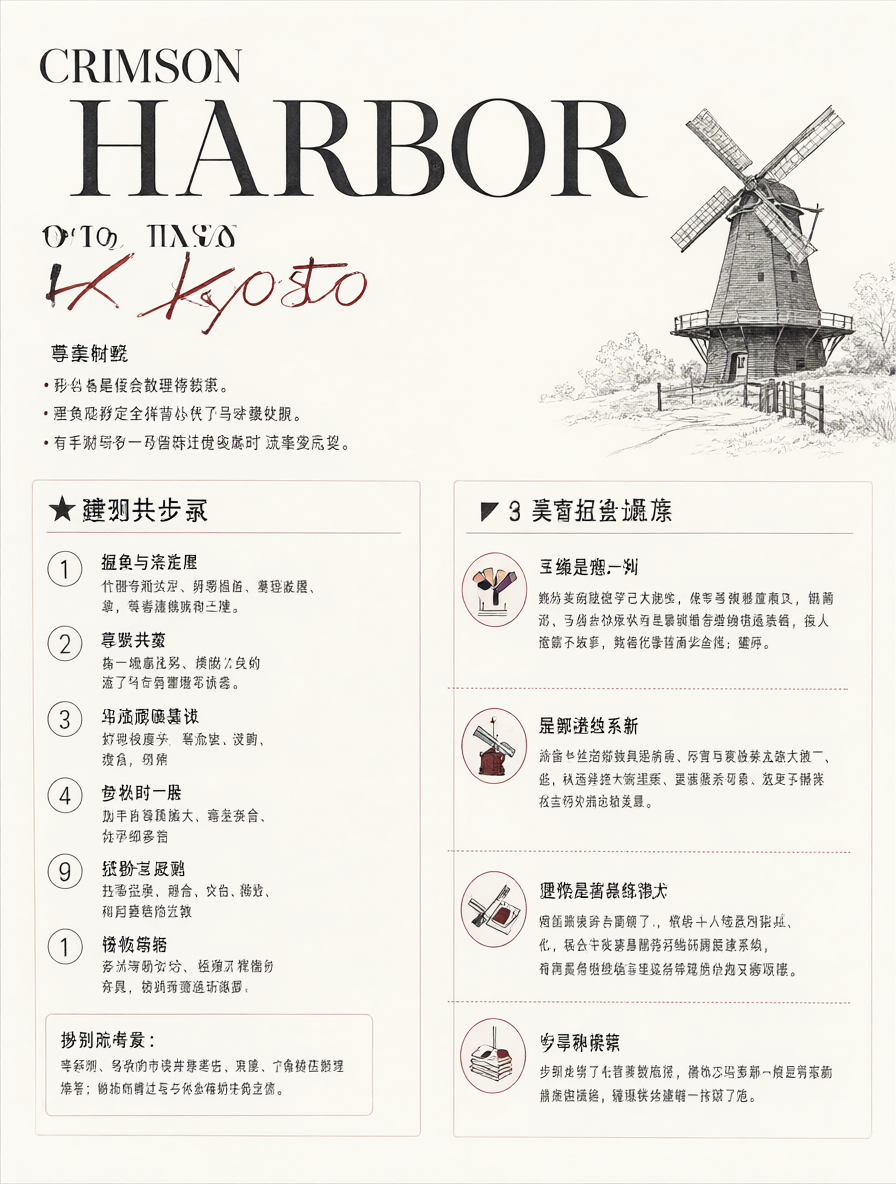
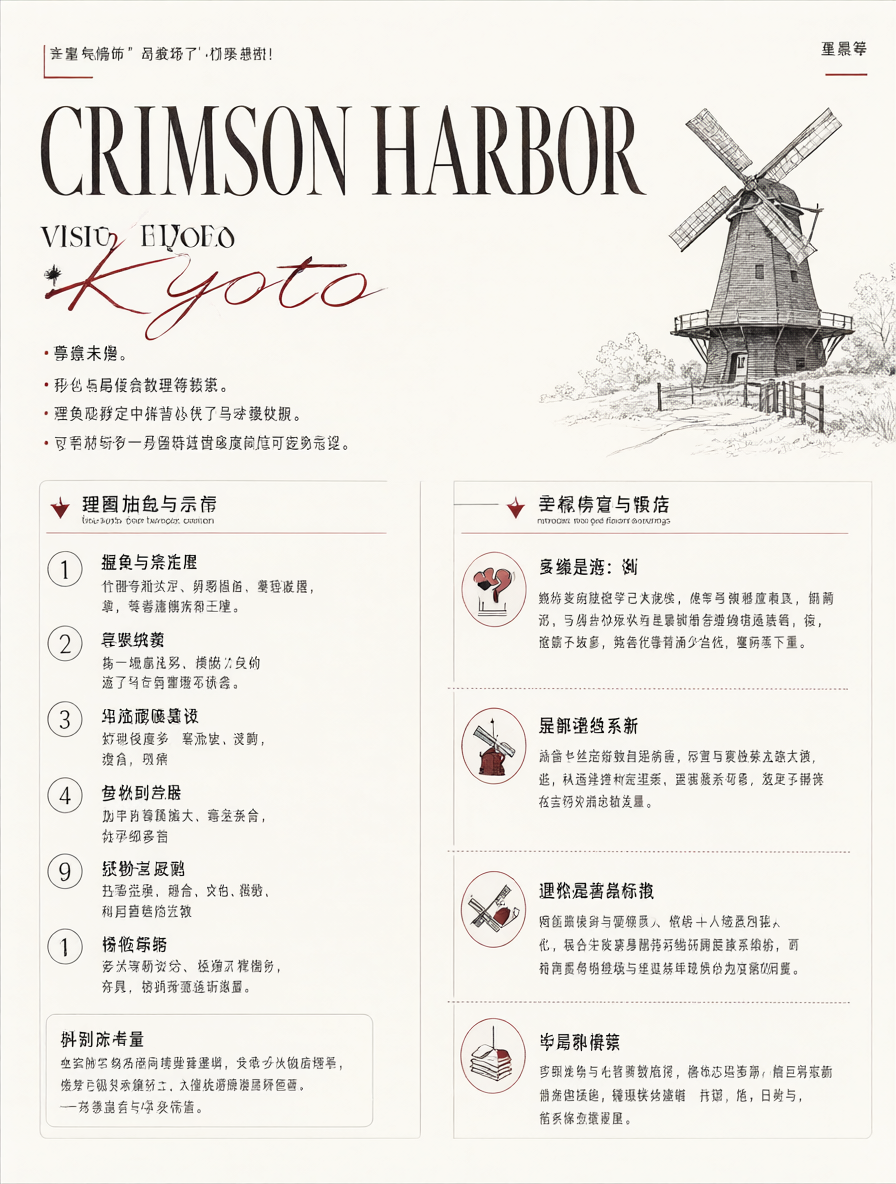
Publish matched full-student image comparison

diff --git a/nihonga/index.html b/nihonga/index.html
@@ -8,7 +8,7 @@
   <link rel="canonical" href="https://niwakiai.com/nihonga/">
   <meta property="og:type" content="website">
   <meta property="og:title" content="Nihonga · Qwen Image compression research">
-  <meta property="og:description" content="A measured research record: full-student healing improved teacher agreement on a broader validation sample; matched image quality remains to be tested.">
+  <meta property="og:description" content="Full-student healing improved teacher agreement on a broader validation sample, but a small matched-image pilot found no clear visual gain.">
   <meta property="og:url" content="https://niwakiai.com/nihonga/">
   <meta property="og:image" content="https://niwakiai.com/assets/nihonga.jpg">
   <meta name="twitter:card" content="summary_large_image">
@@ -141,22 +141,23 @@
     <p class="note">This extends the selected bridge's fixed-input check to 150 new prompt/stage comparisons. It is still a validation set, not an independent image-quality benchmark. Early noise remains the largest source of teacher-student disagreement.</p>
     <h3>The trained checkpoint on the same new inputs</h3><p class="summary">The low-rate update-60 checkpoint still regresses on the original 10 prompts: its control mean was <b>5.655%</b>. On the 50 new prompts, however, it improved mean teacher agreement from <b>5.393% to 5.251%</b>; 121 of 150 paired prompt/stage comparisons improved. The new prompt selection was fixed before this checkpoint comparison. The disagreement between samples makes the original 10-prompt selection uncertain.</p>
     <div class="table-scroll" tabindex="0" role="region" aria-label="Same 50 new prompts and saved teacher inputs; lower means closer velocity predictions"><table><caption>Same 50 new prompts and saved teacher inputs; lower means closer velocity predictions</caption><thead><tr><th scope="col">Noise stage</th><th scope="col">Pretrained bridge</th><th scope="col">Low-rate update 60</th></tr></thead><tbody><tr><td>Early</td><td>10.051%</td><td>9.736%</td></tr><tr><td>Middle</td><td>2.572%</td><td>2.553%</td></tr><tr><td>Late</td><td>3.556%</td><td>3.465%</td></tr></tbody></table></div>
-    <p class="note">This is teacher-prediction agreement, not an image-quality result. The trained checkpoint has not yet been compared with the pretrained bridge in matched generated images, so its weights remain an evaluation candidate rather than the selected image model.</p>
+    <p class="note">This is teacher-prediction agreement on saved noisy inputs, not an image-quality result. The separate matched-image pilot below examines what these numerical gains look like after full generation.</p>
     <h3>What the generated images show</h3>
-    <p class="summary">We generated 10 fixed-seed teacher/student image pairs with the selected pretrained bridge. Main subjects and styles are often similar. In the poster pair, the teacher renders the requested CRIMSON HARBOR title while the student changes part of it into unrelated letters. This is a concrete text-rendering regression. Other differences in composition and detail are mixed; this small visual pilot is not a benchmark-quality score.</p>
-    <div class="paired-images"><figure class="comparison"><a href="images/phase6-poster-teacher.png"><img loading="lazy" src="images/phase6-poster-teacher.png" alt="Teacher image of a science fair poster with the requested CRIMSON HARBOR title"></a><figcaption><b>Original teacher</b> | requested poster title</figcaption></figure><figure class="comparison"><a href="images/phase6-poster-student.png"><img loading="lazy" src="images/phase6-poster-student.png" alt="Pretrained-bridge student image with an incorrect poster title"></a><figcaption><b>Selected student</b> | title text regresses</figcaption></figure></div>
+    <p class="summary">The first pilot generated 10 fixed-seed teacher/pretrained-bridge image pairs. A later pilot generated <b>11 matched triples</b> with teacher, pretrained bridge, and low-rate update 60. The two student versions usually retain similar subjects and styles; their composition and detail differences are mixed. In the poster below, the teacher renders the requested CRIMSON HARBOR title while both students replace HARBOR with unrelated letters. The trained checkpoint does not fix this known text failure.</p>
+    <div class="paired-images"><figure class="comparison"><a href="images/phase6-poster-teacher.png"><img loading="lazy" src="images/phase6-poster-teacher.png" alt="Teacher poster with the requested CRIMSON HARBOR title"></a><figcaption><b>Original teacher</b> | requested title</figcaption></figure><figure class="comparison"><a href="images/phase6-poster-pretrained.png"><img loading="lazy" src="images/phase6-poster-pretrained.png" alt="Pretrained-bridge poster with the second title word incorrect"></a><figcaption><b>Pretrained bridge</b> | title error</figcaption></figure><figure class="comparison"><a href="images/phase6-poster-trained.png"><img loading="lazy" src="images/phase6-poster-trained.png" alt="Update-60 poster with the second title word still incorrect"></a><figcaption><b>Low-rate update 60</b> | title error remains</figcaption></figure></div>
+    <p class="note">This visual review is small and unblinded. It does not establish a quality ranking: a lower teacher-velocity error on saved inputs has not shown a clear generated-image advantage here. Full-resolution PNGs are available by opening each poster.</p>
     <p class="note">The observed 40-step generation averages on these 10 ordered pairs were 7.03 seconds for the teacher and 5.95 seconds for the student, a 1.18x ratio. This ordered pilot does not control for run order or establish a production speed benchmark. Velocity error measures denoising predictions, not image quality.</p>
-    <h3>Research decision</h3><p class="summary">Keep the pretrained single-bridge student as the current image model while testing the low-rate update-60 checkpoint in matched generated images. The broader validation result makes that trained checkpoint worth evaluating, but it does not establish better images. Few-step speed distillation remains a separate experiment.</p>
+    <h3>Research decision</h3><p class="summary">Keep the pretrained single-bridge student as the current image model. The low-rate update-60 checkpoint improves velocity agreement on the broader validation sample but has not shown a clear visual win in 11 matched image triples. A controlled image-quality benchmark is still needed before changing the selected weights. Few-step speed distillation remains a separate experiment.</p>
   </div></section>
   <section id="record" aria-labelledby="h-record"><div class="wrap"><p class="eyebrow">The research record</p><h2 id="h-record">What is complete, what remains open</h2>
-    <dl class="facts"><div><dt>Phase 0</dt><dd>Architecture inspected: 32 blocks and 4,096-wide hidden states.</dd></div><div><dt>Phase 1</dt><dd>20k prompt pilot serialized, with a 100k template pool and fixed split assignments.</dd></div><div><dt>Phase 2</dt><dd>Original-model images, judged baseline, repeatability analysis and H100 efficiency measurements saved.</dd></div><div><dt>Phase 3</dt><dd>Layer diagnostics and identity-bypass image pilots; blocks 2–5 retained as learned-replacement candidates.</dd></div><div><dt>Phase 4</dt><dd>Residual bottleneck bridges implemented and insertion checked.</dd></div><div><dt>Phase 5</dt><dd>Four independent bridge-pretraining pilots completed; checkpoints and optimizer states saved.</dd></div><div><dt>Phase 6</dt><dd>Repeatable teacher contract verified; fixed-input bridge comparisons and fresh hidden targets saved. Two full-student healing pilots, a bridge-only pilot and two bridge + LoRA ablations completed. The low-rate full-student checkpoint improved teacher agreement on 50 new validation prompts despite regressing on the original 10. Ten pretrained-bridge image pairs expose a poster-title regression; matched trained-checkpoint images remain open.</dd></div><div><dt>Later phases</dt><dd>Broader healing coverage, finished-image benchmarking, progressive pruning, denoising-step distillation and optional quantization remain planned. No results are claimed for them.</dd></div></dl>
+    <dl class="facts"><div><dt>Phase 0</dt><dd>Architecture inspected: 32 blocks and 4,096-wide hidden states.</dd></div><div><dt>Phase 1</dt><dd>20k prompt pilot serialized, with a 100k template pool and fixed split assignments.</dd></div><div><dt>Phase 2</dt><dd>Original-model images, judged baseline, repeatability analysis and H100 efficiency measurements saved.</dd></div><div><dt>Phase 3</dt><dd>Layer diagnostics and identity-bypass image pilots; blocks 2–5 retained as learned-replacement candidates.</dd></div><div><dt>Phase 4</dt><dd>Residual bottleneck bridges implemented and insertion checked.</dd></div><div><dt>Phase 5</dt><dd>Four independent bridge-pretraining pilots completed; checkpoints and optimizer states saved.</dd></div><div><dt>Phase 6</dt><dd>Repeatable teacher contract verified; fixed-input bridge comparisons and fresh hidden targets saved. Two full-student healing pilots, a bridge-only pilot and two bridge + LoRA ablations completed. The low-rate full-student checkpoint improved teacher agreement on 50 new validation prompts despite regressing on the original 10. An 11-prompt matched-image pilot found no clear visual win and no repair of the poster title.</dd></div><div><dt>Later phases</dt><dd>Broader healing coverage, finished-image benchmarking, progressive pruning, denoising-step distillation and optional quantization remain planned. No results are claimed for them.</dd></div></dl>
     <h3>Reproducibility and updates</h3><p class="summary">Each executable notebook step has a method description and a plain-language explanation of its result. Targets, raw outputs, metrics, selected weights, optimizer state and manifests are serialized locally, with expensive experiment artifacts backed up remotely. Matching saved steps reuse their results; changed inputs stop rather than silently overwrite the record.</p>
     <ul class="get"><li><a class="primary" href="results.json">Download the measurements<small>JSON · exact values and source SHA-256 hashes</small></a></li><li><a href="https://github.com/josejuanmartinez/nihonga">Research repository ↗<small>Phase notebooks and original plan</small></a></li><li><a href="https://github.com/Neopolita/niwaki-page/tree/main/nihonga">Page source ↗<small>Public research record</small></a></li><li><a href="healing.svg">Earlier bridge + LoRA graph<small>Standalone SVG · diagnostic ablation</small></a></li></ul>
     <p class="note">This page is a dated snapshot of saved experiments, not a live training dashboard. Its refresh script reads selected local summaries and copies existing comparison images; it runs no models and publishes no weights, caches or credentials. Every plotted value is available in the downloadable record.</p>
   </div></section>
   <section id="status" aria-labelledby="h-status"><div class="wrap">
-    <p class="eyebrow">Current result · development pilot</p><h2 id="h-status">Healing is promising on new prompts; images are untested.</h2>
-    <p class="summary">Replacing original block 5 with a pretrained bottleneck bridge reduced the student’s mean velocity error from <b>6.406% to 5.518%</b> on the original 10 prompts. All healing pilots selected update 0 there. On 50 new validation prompts, the low-rate full-student checkpoint improved teacher agreement from <b>5.393% to 5.251%</b>. It remains an image-evaluation candidate; the pretrained bridge is still the selected image model. The earlier 10 matched images show a poster-title regression for that pretrained bridge.</p>
+    <p class="eyebrow">Current result · development pilot</p><h2 id="h-status">Healing improved velocity agreement; images remain mixed.</h2>
+    <p class="summary">Replacing original block 5 with a pretrained bottleneck bridge reduced mean velocity error from <b>6.406% to 5.518%</b> on the original 10 prompts. All healing pilots selected update 0 there. On 50 new validation prompts, low-rate full-student update 60 improved teacher agreement from <b>5.393% to 5.251%</b>. Eleven matched image triples showed no clear visual win and did not fix the poster-title error. The pretrained bridge remains the selected image model.</p>
     <ul class="figures"><li><span class="n">31 <small>+ 1</small></span><span class="c">surviving transformer blocks plus one bridge, from 32 original blocks</span></li><li><span class="n">5.518<small>%</small></span><span class="c">mean fixed-input validation velocity error for the selected bridge</span></li><li><span class="n">13.86<small>%</small></span><span class="c">relative error reduction against skipping block 5</span></li><li><span class="n">90 <small>/ 90</small></span><span class="c">teacher replay predictions exactly match the verified references</span></li></ul>
     <p class="note">The validation set is 10 prompts at three denoising stages: 30 comparisons, not 30 independent prompts. It has also been used for checkpoint and candidate selection. These numbers measure predictions on saved teacher inputs, rather than completed images or independent test generalization.</p>
   </div></section>

diff --git a/nihonga/nihonga.css b/nihonga/nihonga.css
@@ -22,7 +22,7 @@ table caption + thead th { vertical-align: top; }
 .comparison img { display: block; width: 100%; height: auto; }
 .comparison figcaption { margin-top: .65rem; font-size: 1.02rem; color: var(--ink-soft); max-width: 75ch; }
 .comparison figcaption b { font-weight: 500; color: var(--ink); }
-.paired-images { display: grid; grid-template-columns: repeat(2, minmax(0, 1fr)); gap: 1.25rem; }
+.paired-images { display: grid; grid-template-columns: repeat(3, minmax(0, 1fr)); gap: 1.25rem; }
 @media (max-width: 680px) { .paired-images { grid-template-columns: 1fr; } }
 .healing-chart { margin-top: 2.5rem; }
 .healing-chart img { width: 100%; height: auto; display: block; }

diff --git a/tools/build_nihonga.py b/tools/build_nihonga.py
@@ -43,6 +43,8 @@ validation_diagnostic = read('data/phase6/validation_diagnostic.json')
 expanded_validation = read('data/phase6/expanded_validation/summary.json')
 expanded_trained = read('data/phase6/expanded_trained_validation_v2/summary.json')
 expanded_comparison = read('data/phase6/expanded_trained_validation_v2/comparison.json')
+trained_images = read('data/phase6/trained_image_pairs/summary.json')
+trained_visual_review = read('data/phase6/trained_image_pairs/visual_review.json')
 activation = read('data/phase3/activations/full/summary.json')
 bypasses = [read(f'data/phase3/bypass/block_{layer:02d}_pilot/summary.json') for layer in (2,3,4,5)]
 assert all(r['status'] == 'passed' and r['optimizer_updates'] == 120 for r in healing)
@@ -56,6 +58,9 @@ assert expanded_trained['status'] == 'passed' and expanded_trained['student_forw
 assert expanded_trained['optimizer_updates'] == 0
 assert expanded_comparison['baseline_sha256'] == sources['data/phase6/expanded_validation/summary.json']
 assert expanded_comparison['trained_sha256'] == sources['data/phase6/expanded_trained_validation_v2/summary.json']
+assert trained_images['status'] == 'passed' and len(trained_images['rows']) == 11
+assert len(trained_images['artifacts']) == 33 and trained_images['optimizer_updates'] == 0
+assert trained_visual_review['source_id_poster'] in {r['source_id'] for r in trained_images['rows']}
 assert replay['exact_equal_controls'] == 90
 candidates = [a for a in replay['aggregates'] if a['stage'] == 'all']
 public = {
@@ -81,6 +86,8 @@ public = {
     'expanded_validation': {k:expanded_validation[k] for k in ('status','teacher_capture_count','student_forwards','optimizer_updates','control_mean_relative_l2','new_mean_relative_l2','by_stage','by_dimension')},
     'expanded_trained_validation': {k:expanded_trained[k] for k in ('status','student_forwards','optimizer_updates','control_mean_relative_l2','new_mean_relative_l2','by_stage','by_dimension')},
     'expanded_trained_comparison': {k:expanded_comparison[k] for k in ('pretrained_mean_percent','trained_mean_percent','improved_comparisons','worsened_comparisons','by_stage','largest_regressions')},
+    'trained_image_pilot': {'prompts':len(trained_images['rows']), 'images':len(trained_images['artifacts']),
+                           'calls':trained_images['calls'], 'manual_review':trained_visual_review},
     'source_sha256': sources,
 }
 (out/'results.json').write_text(json.dumps(public, indent=2, ensure_ascii=False)+'\n', encoding='utf-8')
@@ -193,13 +200,13 @@ for ident,prompt,interpretation in gallery_names:
     shutil.copy2(source,out/'images'/name)
     sources['data/phase3/bypass/full_images_pilot/'+name]=hashlib.sha256(source.read_bytes()).hexdigest()
     gallery+=f'<figure class="comparison"><a href="images/{name}"><img loading="lazy" src="images/{name}" alt="Teacher, block-4 identity bypass, and block-5 identity bypass, left to right: {esc(prompt)}"></a><figcaption><b>{esc(prompt)}</b><br>{esc(interpretation)}</figcaption></figure>'
-poster = next(r for r in paired_images['rows'] if 'CRIMSON HARBOR' in r['prompt'])
-for role in ('teacher', 'student'):
-    source_name = 'data/phase6/paired_images/' + poster[role]['name']
+poster = next(r for r in trained_images['rows'] if 'CRIMSON HARBOR' in r['prompt'])
+for role in ('teacher', 'pretrained', 'trained'):
+    source_name = 'data/phase6/trained_image_pairs/' + poster[role]['name']
     source = args.source / source_name
     actual_hash = hashlib.sha256(source.read_bytes()).hexdigest()
     if actual_hash != poster[role]['sha256']:
-        raise RuntimeError('Paired image differs from saved report: ' + source_name)
+        raise RuntimeError('Matched image differs from saved report: ' + source_name)
     shutil.copy2(source, out/'images'/f'phase6-poster-{role}.png')
     sources[source_name] = actual_hash
 public['source_sha256']=sources
@@ -213,7 +220,7 @@ head=head[:start]+'''  <meta name="description" content="Nihonga: a research log
   <link rel="canonical" href="https://niwakiai.com/nihonga/">
   <meta property="og:type" content="website">
   <meta property="og:title" content="Nihonga · Qwen Image compression research">
-  <meta property="og:description" content="A measured research record: full-student healing improved teacher agreement on a broader validation sample; matched image quality remains to be tested.">
+  <meta property="og:description" content="Full-student healing improved teacher agreement on a broader validation sample, but a small matched-image pilot found no clear visual gain.">
   <meta property="og:url" content="https://niwakiai.com/nihonga/">
   <meta property="og:image" content="https://niwakiai.com/assets/nihonga.jpg">
 '''+head[end:]
@@ -334,22 +341,23 @@ body=f'''<main id="main">
     <p class="note">This extends the selected bridge's fixed-input check to 150 new prompt/stage comparisons. It is still a validation set, not an independent image-quality benchmark. Early noise remains the largest source of teacher-student disagreement.</p>
     <h3>The trained checkpoint on the same new inputs</h3><p class="summary">The low-rate update-60 checkpoint still regresses on the original 10 prompts: its control mean was <b>{100*expanded_trained['control_mean_relative_l2']:.3f}%</b>. On the 50 new prompts, however, it improved mean teacher agreement from <b>{expanded_comparison['pretrained_mean_percent']:.3f}% to {expanded_comparison['trained_mean_percent']:.3f}%</b>; {expanded_comparison['improved_comparisons']} of 150 paired prompt/stage comparisons improved. The new prompt selection was fixed before this checkpoint comparison. The disagreement between samples makes the original 10-prompt selection uncertain.</p>
     {table(['Noise stage','Pretrained bridge','Low-rate update 60'],[[r['stage'].title(),f"{r['pretrained_mean_percent']:.3f}%",f"{r['trained_mean_percent']:.3f}%"] for r in expanded_comparison['by_stage']],'Same 50 new prompts and saved teacher inputs; lower means closer velocity predictions')}
-    <p class="note">This is teacher-prediction agreement, not an image-quality result. The trained checkpoint has not yet been compared with the pretrained bridge in matched generated images, so its weights remain an evaluation candidate rather than the selected image model.</p>
+    <p class="note">This is teacher-prediction agreement on saved noisy inputs, not an image-quality result. The separate matched-image pilot below examines what these numerical gains look like after full generation.</p>
     <h3>What the generated images show</h3>
-    <p class="summary">We generated 10 fixed-seed teacher/student image pairs with the selected pretrained bridge. Main subjects and styles are often similar. In the poster pair, the teacher renders the requested CRIMSON HARBOR title while the student changes part of it into unrelated letters. This is a concrete text-rendering regression. Other differences in composition and detail are mixed; this small visual pilot is not a benchmark-quality score.</p>
-    <div class="paired-images"><figure class="comparison"><a href="images/phase6-poster-teacher.png"><img loading="lazy" src="images/phase6-poster-teacher.png" alt="Teacher image of a science fair poster with the requested CRIMSON HARBOR title"></a><figcaption><b>Original teacher</b> | requested poster title</figcaption></figure><figure class="comparison"><a href="images/phase6-poster-student.png"><img loading="lazy" src="images/phase6-poster-student.png" alt="Pretrained-bridge student image with an incorrect poster title"></a><figcaption><b>Selected student</b> | title text regresses</figcaption></figure></div>
+    <p class="summary">The first pilot generated 10 fixed-seed teacher/pretrained-bridge image pairs. A later pilot generated <b>11 matched triples</b> with teacher, pretrained bridge, and low-rate update 60. The two student versions usually retain similar subjects and styles; their composition and detail differences are mixed. In the poster below, the teacher renders the requested CRIMSON HARBOR title while both students replace HARBOR with unrelated letters. The trained checkpoint does not fix this known text failure.</p>
+    <div class="paired-images"><figure class="comparison"><a href="images/phase6-poster-teacher.png"><img loading="lazy" src="images/phase6-poster-teacher.png" alt="Teacher poster with the requested CRIMSON HARBOR title"></a><figcaption><b>Original teacher</b> | requested title</figcaption></figure><figure class="comparison"><a href="images/phase6-poster-pretrained.png"><img loading="lazy" src="images/phase6-poster-pretrained.png" alt="Pretrained-bridge poster with the second title word incorrect"></a><figcaption><b>Pretrained bridge</b> | title error</figcaption></figure><figure class="comparison"><a href="images/phase6-poster-trained.png"><img loading="lazy" src="images/phase6-poster-trained.png" alt="Update-60 poster with the second title word still incorrect"></a><figcaption><b>Low-rate update 60</b> | title error remains</figcaption></figure></div>
+    <p class="note">This visual review is small and unblinded. It does not establish a quality ranking: a lower teacher-velocity error on saved inputs has not shown a clear generated-image advantage here. Full-resolution PNGs are available by opening each poster.</p>
     <p class="note">The observed 40-step generation averages on these 10 ordered pairs were {public['paired_images']['teacher_mean_seconds']:.2f} seconds for the teacher and {public['paired_images']['student_mean_seconds']:.2f} seconds for the student, a {public['paired_images']['teacher_mean_seconds']/public['paired_images']['student_mean_seconds']:.2f}x ratio. This ordered pilot does not control for run order or establish a production speed benchmark. Velocity error measures denoising predictions, not image quality.</p>
-    <h3>Research decision</h3><p class="summary">Keep the pretrained single-bridge student as the current image model while testing the low-rate update-60 checkpoint in matched generated images. The broader validation result makes that trained checkpoint worth evaluating, but it does not establish better images. Few-step speed distillation remains a separate experiment.</p>
+    <h3>Research decision</h3><p class="summary">Keep the pretrained single-bridge student as the current image model. The low-rate update-60 checkpoint improves velocity agreement on the broader validation sample but has not shown a clear visual win in 11 matched image triples. A controlled image-quality benchmark is still needed before changing the selected weights. Few-step speed distillation remains a separate experiment.</p>
   </div></section>
   <section id="record" aria-labelledby="h-record"><div class="wrap"><p class="eyebrow">The research record</p><h2 id="h-record">What is complete, what remains open</h2>
-    <dl class="facts"><div><dt>Phase 0</dt><dd>Architecture inspected: 32 blocks and 4,096-wide hidden states.</dd></div><div><dt>Phase 1</dt><dd>20k prompt pilot serialized, with a 100k template pool and fixed split assignments.</dd></div><div><dt>Phase 2</dt><dd>Original-model images, judged baseline, repeatability analysis and H100 efficiency measurements saved.</dd></div><div><dt>Phase 3</dt><dd>Layer diagnostics and identity-bypass image pilots; blocks 2–5 retained as learned-replacement candidates.</dd></div><div><dt>Phase 4</dt><dd>Residual bottleneck bridges implemented and insertion checked.</dd></div><div><dt>Phase 5</dt><dd>Four independent bridge-pretraining pilots completed; checkpoints and optimizer states saved.</dd></div><div><dt>Phase 6</dt><dd>Repeatable teacher contract verified; fixed-input bridge comparisons and fresh hidden targets saved. Two full-student healing pilots, a bridge-only pilot and two bridge + LoRA ablations completed. The low-rate full-student checkpoint improved teacher agreement on 50 new validation prompts despite regressing on the original 10. Ten pretrained-bridge image pairs expose a poster-title regression; matched trained-checkpoint images remain open.</dd></div><div><dt>Later phases</dt><dd>Broader healing coverage, finished-image benchmarking, progressive pruning, denoising-step distillation and optional quantization remain planned. No results are claimed for them.</dd></div></dl>
+    <dl class="facts"><div><dt>Phase 0</dt><dd>Architecture inspected: 32 blocks and 4,096-wide hidden states.</dd></div><div><dt>Phase 1</dt><dd>20k prompt pilot serialized, with a 100k template pool and fixed split assignments.</dd></div><div><dt>Phase 2</dt><dd>Original-model images, judged baseline, repeatability analysis and H100 efficiency measurements saved.</dd></div><div><dt>Phase 3</dt><dd>Layer diagnostics and identity-bypass image pilots; blocks 2–5 retained as learned-replacement candidates.</dd></div><div><dt>Phase 4</dt><dd>Residual bottleneck bridges implemented and insertion checked.</dd></div><div><dt>Phase 5</dt><dd>Four independent bridge-pretraining pilots completed; checkpoints and optimizer states saved.</dd></div><div><dt>Phase 6</dt><dd>Repeatable teacher contract verified; fixed-input bridge comparisons and fresh hidden targets saved. Two full-student healing pilots, a bridge-only pilot and two bridge + LoRA ablations completed. The low-rate full-student checkpoint improved teacher agreement on 50 new validation prompts despite regressing on the original 10. An 11-prompt matched-image pilot found no clear visual win and no repair of the poster title.</dd></div><div><dt>Later phases</dt><dd>Broader healing coverage, finished-image benchmarking, progressive pruning, denoising-step distillation and optional quantization remain planned. No results are claimed for them.</dd></div></dl>
     <h3>Reproducibility and updates</h3><p class="summary">Each executable notebook step has a method description and a plain-language explanation of its result. Targets, raw outputs, metrics, selected weights, optimizer state and manifests are serialized locally, with expensive experiment artifacts backed up remotely. Matching saved steps reuse their results; changed inputs stop rather than silently overwrite the record.</p>
     <ul class="get"><li><a class="primary" href="results.json">Download the measurements<small>JSON · exact values and source SHA-256 hashes</small></a></li><li><a href="https://github.com/josejuanmartinez/nihonga">Research repository ↗<small>Phase notebooks and original plan</small></a></li><li><a href="https://github.com/Neopolita/niwaki-page/tree/main/nihonga">Page source ↗<small>Public research record</small></a></li><li><a href="healing.svg">Earlier bridge + LoRA graph<small>Standalone SVG · diagnostic ablation</small></a></li></ul>
     <p class="note">This page is a dated snapshot of saved experiments, not a live training dashboard. Its refresh script reads selected local summaries and copies existing comparison images; it runs no models and publishes no weights, caches or credentials. Every plotted value is available in the downloadable record.</p>
   </div></section>
   <section id="status" aria-labelledby="h-status"><div class="wrap">
-    <p class="eyebrow">Current result · development pilot</p><h2 id="h-status">Healing is promising on new prompts; images are untested.</h2>
-    <p class="summary">Replacing original block 5 with a pretrained bottleneck bridge reduced the student’s mean velocity error from <b>6.406% to 5.518%</b> on the original 10 prompts. All healing pilots selected update 0 there. On 50 new validation prompts, the low-rate full-student checkpoint improved teacher agreement from <b>5.393% to 5.251%</b>. It remains an image-evaluation candidate; the pretrained bridge is still the selected image model. The earlier 10 matched images show a poster-title regression for that pretrained bridge.</p>
+    <p class="eyebrow">Current result · development pilot</p><h2 id="h-status">Healing improved velocity agreement; images remain mixed.</h2>
+    <p class="summary">Replacing original block 5 with a pretrained bottleneck bridge reduced mean velocity error from <b>6.406% to 5.518%</b> on the original 10 prompts. All healing pilots selected update 0 there. On 50 new validation prompts, low-rate full-student update 60 improved teacher agreement from <b>5.393% to 5.251%</b>. Eleven matched image triples showed no clear visual win and did not fix the poster-title error. The pretrained bridge remains the selected image model.</p>
     <ul class="figures"><li><span class="n">31 <small>+ 1</small></span><span class="c">surviving transformer blocks plus one bridge, from 32 original blocks</span></li><li><span class="n">5.518<small>%</small></span><span class="c">mean fixed-input validation velocity error for the selected bridge</span></li><li><span class="n">13.86<small>%</small></span><span class="c">relative error reduction against skipping block 5</span></li><li><span class="n">90 <small>/ 90</small></span><span class="c">teacher replay predictions exactly match the verified references</span></li></ul>
     <p class="note">The validation set is 10 prompts at three denoising stages: 30 comparisons, not 30 independent prompts. It has also been used for checkpoint and candidate selection. These numbers measure predictions on saved teacher inputs, rather than completed images or independent test generalization.</p>
   </div></section>

diff --git a/nihonga/README.md b/nihonga/README.md
@@ -3,8 +3,9 @@
 `index.html` follows the site's shared style. `results.json` contains the precise
 values behind the tables and graphs, plus SHA-256 hashes of the saved source
 artifacts. The five older gallery sheets are Phase 3 identity-bypass comparisons.
-The two Phase 6 poster images compare the original teacher with the selected
-pretrained-bridge student; no healed checkpoint was promoted.
+The three Phase 6 poster images compare the original teacher, the selected
+pretrained-bridge student, and the low-rate trained checkpoint. They were
+generated with matched prompts and seeds; no healed checkpoint was promoted.
 
 To refresh from the research checkout (no GPU or network calls):
 
